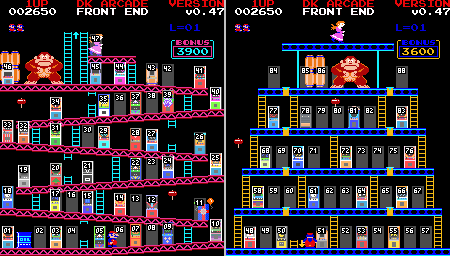
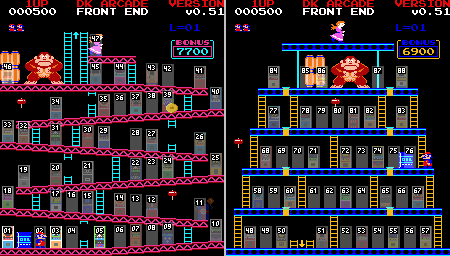
Fix bug with coin drop in last release remove examples from shell folder update some about screenshots

diff --git a/launch.py b/launch.py
@@ -1095,7 +1095,7 @@ def animate_rolling_coins(out_of_time=False):
         # Move the coin along the platform and down ladders
         if "FOOT_ABOVE_PLATFORM" in map_info:
             co_y += 1  # coin moves down the sloped girder to touch the platform
-        if "FOOT_UNDER_PLATFORM" in map_info and _g.stage == 1:
+        elif "FOOT_UNDER_PLATFORM" in map_info and _g.stage == 1:
             co_y -= 1  # correct coin position by moving it up the girder
         elif "ANY_LADDER" in map_info and co_y < 238:
             if "TOP_OF_ANY_LADDER" in map_info:

diff --git a/readme.md b/readme.md
@@ -169,7 +169,7 @@ Credit is given to the original authors below.
 ![DKAFE hacks](https://github.com/10yard/dkafe/blob/master/artwork/about/dkwho_gameplay.png)
 
 
-![DKAFE hacks](https://github.com/10yard/dkafe/blob/master/artwork/about/galakong_gameplay.png)
+![DKAFE hacks](https://github.com/10yard/dkafe/blob/master/artwork/about/gameinfo.png)
 
 
 ## Feature Plugins
